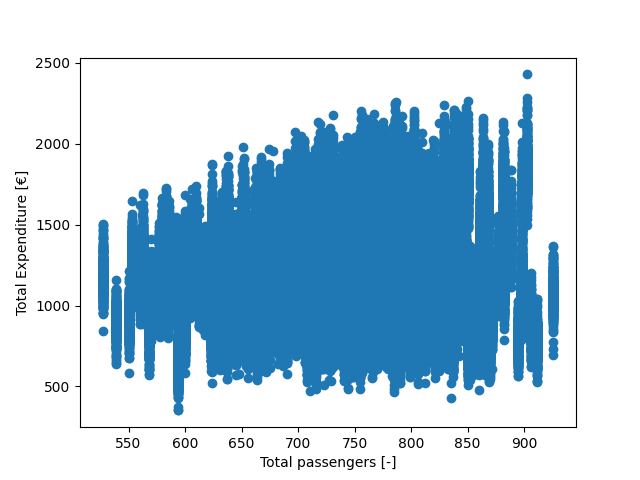
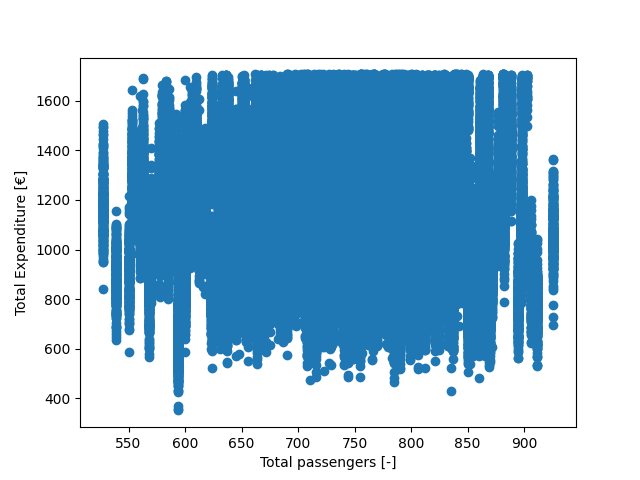
Finished remove_faulty

diff --git a/handle_data.py b/handle_data.py
@@ -236,26 +236,17 @@ def remove_faulty(data: dict, variable):
     use = list.sort_values(ascending = True)
     data_amount_quart = data_amount / 4
     IQR = use[3*data_amount_quart] - use[data_amount_quart]
-    whisker = 1.5 * IQR
+    whisker = 1.5 * IQR #To keep more values put 2*IQR or something else
     acceptable_min = use[data_amount_quart] - whisker
     acceptable_max = use[3*data_amount_quart] + whisker
-    data = data[data["Output"][variable] <= acceptable_max]
-    data = data[data["Output"][variable] >= acceptable_min]
 
-    for i in data["Output"][variable]:
-        if i > 2000:
-            print(i)
 
-    # Q1 = data["Output"][variable].quantile(0.25)
-    # Q3 = data["Output"][variable].quantile(0.75)
-    # IQR = Q3 - Q1    #IQR is interquartile range. 
+    data["Input"].drop(data["Output"][data['Output'][variable] >= acceptable_max].index, inplace = True)
+    data["Input"].drop(data["Output"][data['Output'][variable] <= acceptable_min].index, inplace = True)
+    data["Output"].drop(data["Output"][data['Output'][variable] >= acceptable_max].index, inplace = True)
+    data["Output"].drop(data["Output"][data['Output'][variable] <= acceptable_min].index, inplace = True)
 
-    # filter = (data["Output"][variable] >= Q1 - 1 * IQR) & (data["Output"][variable] <= Q3 + 1 *IQR)
-    # data["Output"][variable].loc[filter]
 
-    # for i in data["Output"][variable]:
-    #     if filter[i] == False:
-    #         print(i)
     
     
     
